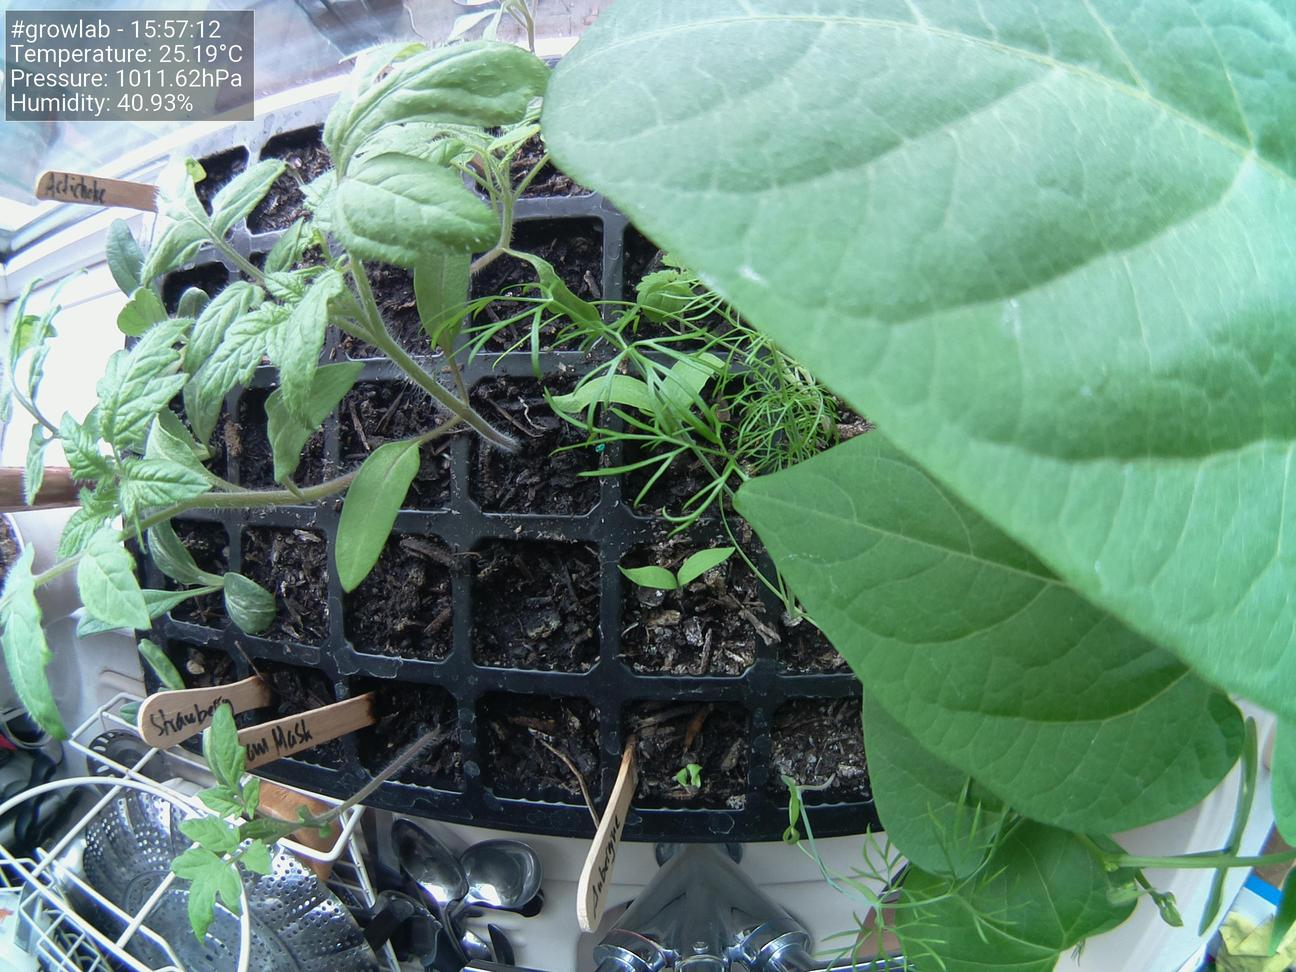
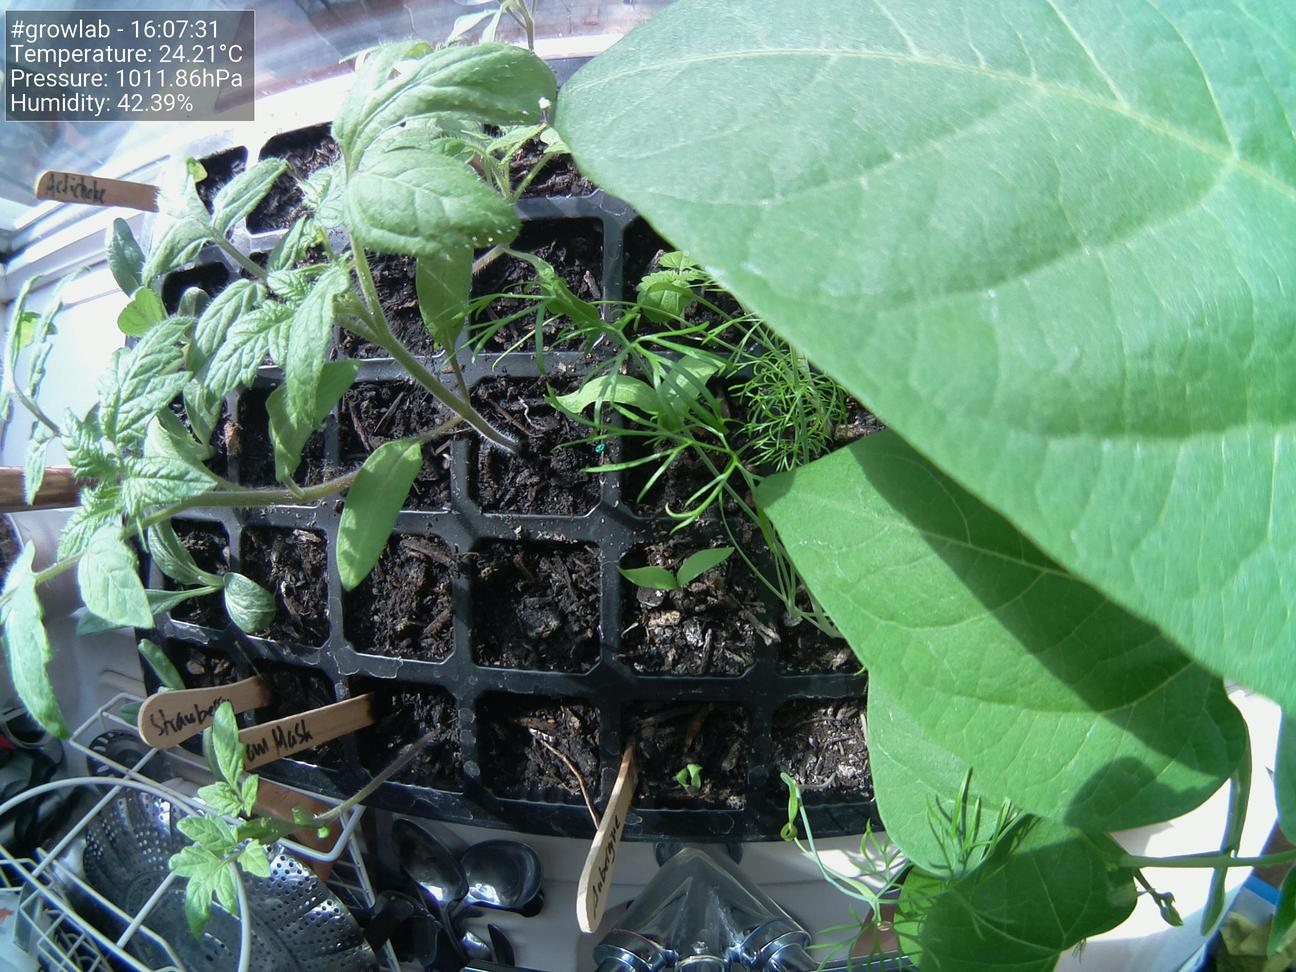
Update images at Thu 29 Apr 16:07:43 BST 2021

diff --git a/docs/index.html b/docs/index.html
@@ -38,19 +38,19 @@
                     <tbody>
                         <tr>
                             <td>Time</td>
-                            <td>15:57:12</td>
+                            <td>16:07:31</td>
                         </tr>
                         <tr>
                             <td>Temperature</td>
-                            <td>25.19°C</td>
+                            <td>24.21°C</td>
                         </tr>
                         <tr>
                             <td>Humidity</td>
-                            <td>40.93%</td>
+                            <td>42.39%</td>
                         </tr>
                         <tr>
                             <td>Pressure</td>
-                            <td>1011.62hPa</td>
+                            <td>1011.86hPa</td>
                         </tr>
                     </tbody>
                 </table>
@@ -58,7 +58,7 @@
 
                 <h5>Latest image</h5>
 		<div style="width: 85%;">
-	                <img class="figure-img img-fluid rounded" src="./preview.jpg?uid=1619708243.2178419">
+	                <img class="figure-img img-fluid rounded" src="./preview.jpg?uid=1619708862.7542102">
 		</div>
             </div>
         </div>
